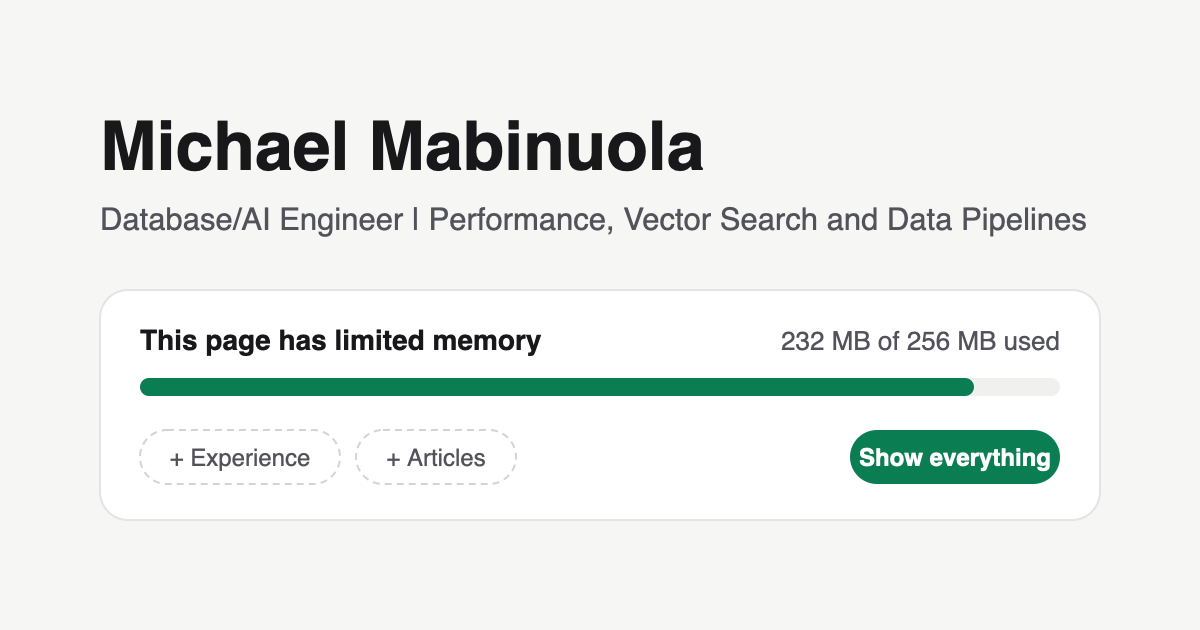
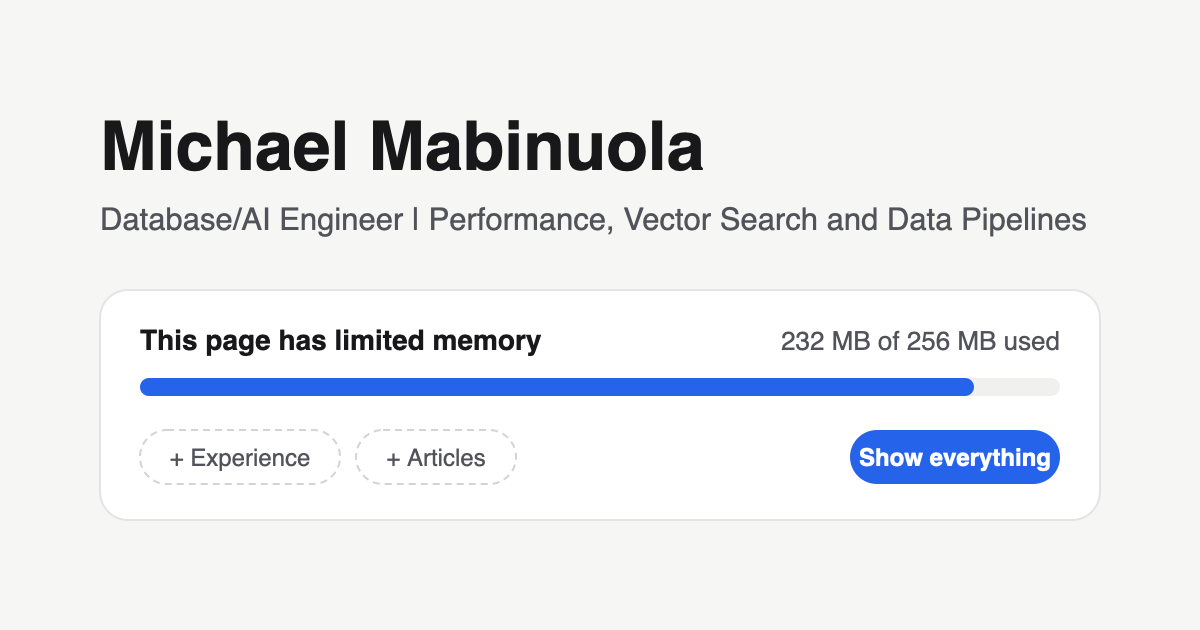
Blue-to-teal accent with green status colours, inspired by min-hyuk.com's palette

Changed region(s): [[0.0925, 0.573, 0.8325, 0.6333], [0.7092, 0.6635, 0.8942, 0.7841]]

diff --git a/src/index.css b/src/index.css
@@ -15,6 +15,9 @@
   --color-line-strong: var(--line-strong);
   --color-accent: var(--accent);
   --color-accent-soft: var(--accent-soft);
+  --color-accent-2: var(--accent-2);
+  --color-ok: var(--ok);
+  --color-ok-ink: var(--ok-ink);
   --color-warn: var(--warn);
   --color-track: var(--track);
 }
@@ -27,9 +30,12 @@
   --ink-3: #8a8a93;
   --line: #e4e4e7;
   --line-strong: #d4d4d8;
-  --accent: #0a7d52; /* green, 5.2:1 on white */
-  --accent-soft: #e3f3eb;
-  --accent-2: #3182f6; /* blue, used only in the hero glow */
+  /* Blue → teal accent pair; green marks live status. Text colours pass 4.5:1 on white. */
+  --accent: #2563eb;
+  --accent-2: #0f766e;
+  --accent-soft: #e8effd;
+  --ok: #16a34a; /* dots only */
+  --ok-ink: #15803d; /* green text */
   --warn: #b45309;
   --track: #f0f0ee;
   color-scheme: light;
@@ -44,9 +50,11 @@
     --ink-3: #71717a;
     --line: #27272a;
     --line-strong: #3f3f46;
-    --accent: #34d399;
-    --accent-soft: #10291f;
-    --accent-2: #60a5fa;
+    --accent: #60a5fa;
+    --accent-2: #2dd4bf;
+    --accent-soft: #14213a;
+    --ok: #22c55e;
+    --ok-ink: #4ade80;
     --warn: #f0a33a;
     --track: #222225;
     color-scheme: dark;
@@ -61,9 +69,11 @@
   --ink-3: #71717a;
   --line: #27272a;
   --line-strong: #3f3f46;
-  --accent: #34d399;
-  --accent-soft: #10291f;
-  --accent-2: #60a5fa;
+  --accent: #60a5fa;
+  --accent-2: #2dd4bf;
+  --accent-soft: #14213a;
+  --ok: #22c55e;
+  --ok-ink: #4ade80;
   --warn: #f0a33a;
   --track: #222225;
   color-scheme: dark;
@@ -148,8 +158,8 @@ body {
 /* Soft accent glow behind the hero. */
 .hero-glow {
   background:
-    radial-gradient(40rem 22rem at 15% 20%, color-mix(in srgb, var(--accent) 16%, transparent), transparent 70%),
-    radial-gradient(30rem 18rem at 85% 0%, color-mix(in srgb, var(--accent-2) 12%, transparent), transparent 70%);
+    radial-gradient(40rem 22rem at 15% 20%, color-mix(in srgb, var(--accent) 14%, transparent), transparent 70%),
+    radial-gradient(30rem 18rem at 85% 0%, color-mix(in srgb, var(--accent-2) 14%, transparent), transparent 70%);
 }
 
 /* Outline a section card for a moment after it is brought back into memory. */
@@ -171,4 +181,18 @@ body {
     animation: none;
     border-color: var(--accent) !important;
   }
+}
+
+/* Signature blue → teal gradient. */
+.bg-accent-gradient {
+  background-image: linear-gradient(90deg, var(--accent), var(--accent-2));
+}
+.text-accent-gradient {
+  background-image: linear-gradient(90deg, var(--accent), var(--accent-2));
+  -webkit-background-clip: text;
+  background-clip: text;
+  color: transparent;
+}
+.border-accent-gradient {
+  border-image: linear-gradient(var(--accent), var(--accent-2)) 1;
 }

diff --git a/src/sections/Latest.tsx b/src/sections/Latest.tsx
@@ -17,8 +17,8 @@ export function Latest() {
               <div className="min-w-0">
                 <div className="flex items-center gap-2 text-xs text-ink-3">
                   {item.kind === 'reading' ? ui.reading : ui.learning}
-                  <span className="inline-flex items-center gap-1 rounded-full bg-accent-soft px-2 py-0.5 text-accent">
-                    <span aria-hidden="true" className="h-1.5 w-1.5 animate-pulse rounded-full bg-accent motion-reduce:animate-none" />
+                  <span className="inline-flex items-center gap-1 rounded-full bg-ok/10 px-2 py-0.5 text-ok-ink">
+                    <span aria-hidden="true" className="h-1.5 w-1.5 animate-pulse rounded-full bg-ok motion-reduce:animate-none" />
                     {ui.inProgress}
                   </span>
                 </div>

diff --git a/src/components/SeoulClock.tsx b/src/components/SeoulClock.tsx
@@ -30,8 +30,8 @@ export function SeoulClock() {
       </div>
       <div className="ml-auto flex flex-wrap items-center gap-2">
         <span className="inline-flex items-center rounded-full border border-accent/30 px-3 py-1 text-xs text-accent">{ui.openToRelocation}</span>
-        <span className="inline-flex items-center gap-1.5 rounded-full bg-accent-soft px-3 py-1 text-xs text-accent">
-          <span aria-hidden="true" className="h-2 w-2 animate-pulse rounded-full bg-accent motion-reduce:animate-none" />
+        <span className="inline-flex items-center gap-1.5 rounded-full bg-ok/10 px-3 py-1 text-xs text-ok-ink">
+          <span aria-hidden="true" className="h-2 w-2 animate-pulse rounded-full bg-ok motion-reduce:animate-none" />
           {ui.replyFast}
         </span>
       </div>

diff --git a/src/components/ScrollTop.tsx b/src/components/ScrollTop.tsx
@@ -31,7 +31,7 @@ export function ScrollTop() {
           initial={{ opacity: 0, y: 12 }}
           animate={{ opacity: 1, y: 0 }}
           exit={{ opacity: 0, y: 12 }}
-          className="fixed bottom-5 right-5 z-50 flex h-12 w-12 items-center justify-center rounded-full bg-accent text-surface shadow-lg shadow-black/10 transition-opacity hover:opacity-90 sm:bottom-8 sm:right-8"
+          className="fixed bottom-5 right-5 z-50 flex h-12 w-12 items-center justify-center rounded-full bg-accent-gradient text-surface shadow-lg shadow-black/10 transition-opacity hover:opacity-90 sm:bottom-8 sm:right-8"
         >
           <ArrowUp size={20} aria-hidden="true" />
         </motion.button>

diff --git a/src/components/MemoryPanel.tsx b/src/components/MemoryPanel.tsx
@@ -95,7 +95,7 @@ export function MemoryPanel({
             {/* Fixed anon memory (the skills strip below), then reclaimable file cache. */}
             <div className="h-full rounded-l-full bg-ink-3 transition-[width] duration-500" style={{ width: `${(s.anonMb / s.maxMb) * 100}%` }} />
             <div
-              className={`h-full rounded-r-full transition-[width,background-color] duration-500 ${thrashing ? 'bg-warn' : 'bg-accent'}`}
+              className={`h-full rounded-r-full transition-[width,background-color] duration-500 ${thrashing ? 'bg-warn' : 'bg-accent-gradient'}`}
               style={{ width: `${(s.fileMb / s.maxMb) * 100}%` }}
             />
           </div>

diff --git a/src/App.tsx b/src/App.tsx
@@ -78,7 +78,7 @@ export default function App() {
             </div>
             <Greeting />
             <h1 className="mt-1 text-5xl font-bold tracking-tight text-ink sm:text-8xl">{resume.basics.name}</h1>
-            <p className="mt-5 text-xl font-semibold text-accent sm:text-2xl">
+            <p className="text-accent-gradient mt-5 text-xl font-semibold sm:text-2xl">
               {l.title()}
               {/* The specialities only fit on wider screens. */}
               <span className="hidden sm:inline"> | {l.tagline()}</span>

diff --git a/src/sections/SectionBody.tsx b/src/sections/SectionBody.tsx
@@ -67,7 +67,7 @@ function Experience() {
   const certs = resume.certificatesAndAwards.filter((c) => /certified/i.test(c.name))
   return (
     <div>
-      <ol className="relative flex flex-col gap-6 border-l border-line pl-6">
+      <ol className="border-accent-gradient relative flex flex-col gap-6 border-l pl-6">
         {resume.experience.map((e) => (
           <li key={e.id} className="relative">
             <span
